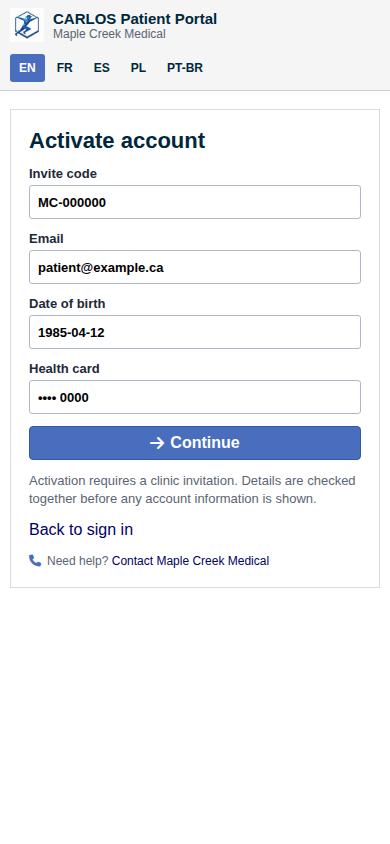
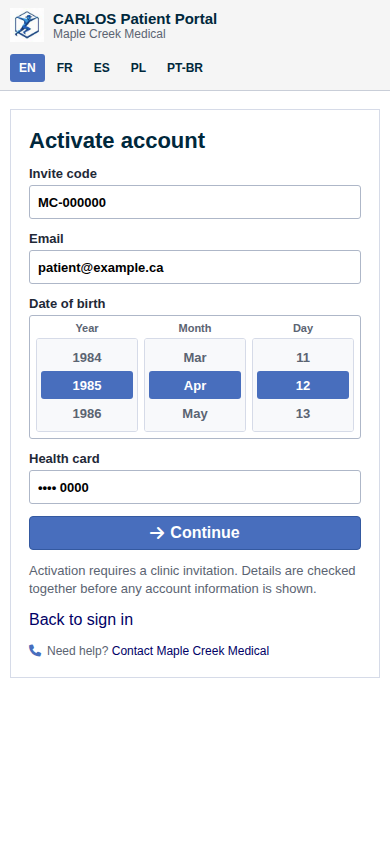
docs: use scroll selector for portal activation DOB

Changed region(s): [[0.0615, 0.3697, 0.9231, 0.8009], [0.3077, 0.7393, 0.6769, 0.8009]]

diff --git a/patient-portal-mocks/index.html b/patient-portal-mocks/index.html
@@ -136,10 +136,42 @@
                 <span>Email</span>
                 <input type="email" value="patient@example.ca" autocomplete="email">
               </label>
-              <label>
-                <span>Date of birth</span>
-                <input type="text" value="1985-04-12" inputmode="numeric" autocomplete="bday">
-              </label>
+              <div class="dob-field">
+                <span class="field-label">Date of birth</span>
+                <input type="hidden" value="1985-04-12" autocomplete="bday" data-dob-value>
+                <div class="dob-scroll-picker" role="group" aria-label="Date of birth">
+                  <div class="dob-scroll-column">
+                    <span>Year</span>
+                    <div class="dob-wheel" role="listbox" aria-label="Birth year" tabindex="0" data-dob-wheel>
+                      <button type="button" role="option" aria-selected="false" class="dob-option" data-dob-part="year" data-dob-option data-dob-value="1983">1983</button>
+                      <button type="button" role="option" aria-selected="false" class="dob-option" data-dob-part="year" data-dob-option data-dob-value="1984">1984</button>
+                      <button type="button" role="option" aria-selected="true" class="dob-option selected" data-dob-part="year" data-dob-option data-dob-value="1985">1985</button>
+                      <button type="button" role="option" aria-selected="false" class="dob-option" data-dob-part="year" data-dob-option data-dob-value="1986">1986</button>
+                      <button type="button" role="option" aria-selected="false" class="dob-option" data-dob-part="year" data-dob-option data-dob-value="1987">1987</button>
+                    </div>
+                  </div>
+                  <div class="dob-scroll-column">
+                    <span>Month</span>
+                    <div class="dob-wheel" role="listbox" aria-label="Birth month" tabindex="0" data-dob-wheel>
+                      <button type="button" role="option" aria-selected="false" class="dob-option" data-dob-part="month" data-dob-option data-dob-value="03">Mar</button>
+                      <button type="button" role="option" aria-selected="true" class="dob-option selected" data-dob-part="month" data-dob-option data-dob-value="04">Apr</button>
+                      <button type="button" role="option" aria-selected="false" class="dob-option" data-dob-part="month" data-dob-option data-dob-value="05">May</button>
+                      <button type="button" role="option" aria-selected="false" class="dob-option" data-dob-part="month" data-dob-option data-dob-value="06">Jun</button>
+                      <button type="button" role="option" aria-selected="false" class="dob-option" data-dob-part="month" data-dob-option data-dob-value="07">Jul</button>
+                    </div>
+                  </div>
+                  <div class="dob-scroll-column">
+                    <span>Day</span>
+                    <div class="dob-wheel" role="listbox" aria-label="Birth day" tabindex="0" data-dob-wheel>
+                      <button type="button" role="option" aria-selected="false" class="dob-option" data-dob-part="day" data-dob-option data-dob-value="10">10</button>
+                      <button type="button" role="option" aria-selected="false" class="dob-option" data-dob-part="day" data-dob-option data-dob-value="11">11</button>
+                      <button type="button" role="option" aria-selected="true" class="dob-option selected" data-dob-part="day" data-dob-option data-dob-value="12">12</button>
+                      <button type="button" role="option" aria-selected="false" class="dob-option" data-dob-part="day" data-dob-option data-dob-value="13">13</button>
+                      <button type="button" role="option" aria-selected="false" class="dob-option" data-dob-part="day" data-dob-option data-dob-value="14">14</button>
+                    </div>
+                  </div>
+                </div>
+              </div>
               <label>
                 <span>Health card</span>
                 <input type="text" value="•••• 0000" autocomplete="off">
@@ -719,6 +751,7 @@
         url.searchParams.set('screen', id);
         window.history.replaceState({}, '', url);
       }
+      centerDobSelections(next);
     }
 
     document.querySelectorAll('[data-target]').forEach((button) => {
@@ -738,6 +771,37 @@
         button.setAttribute('title', nextType === 'password' ? 'Show password' : 'Hide password');
         button.querySelector('i')?.classList.toggle('fa-eye', nextType === 'password');
         button.querySelector('i')?.classList.toggle('fa-eye-slash', nextType !== 'password');
+      });
+    });
+
+    function updateDobValue(field) {
+      const hidden = field?.querySelector('[data-dob-value]');
+      if (!hidden) return;
+      const parts = ['year', 'month', 'day'].map((part) => (
+        field.querySelector(`[data-dob-part="${part}"].selected`)?.dataset.dobValue
+      ));
+      if (parts.every(Boolean)) hidden.value = parts.join('-');
+    }
+
+    function centerDobSelections(scope = document) {
+      scope.querySelectorAll('[data-dob-wheel]').forEach((wheel) => {
+        const selected = wheel.querySelector('[data-dob-option].selected');
+        if (!selected) return;
+        const selectedTop = selected.offsetTop - wheel.offsetTop;
+        wheel.scrollTop = selectedTop - ((wheel.clientHeight - selected.offsetHeight) / 2);
+      });
+    }
+
+    document.querySelectorAll('[data-dob-option]').forEach((option) => {
+      option.addEventListener('click', () => {
+        const wheel = option.closest('[data-dob-wheel]');
+        wheel?.querySelectorAll('[data-dob-option]').forEach((item) => {
+          const selected = item === option;
+          item.classList.toggle('selected', selected);
+          item.setAttribute('aria-selected', selected ? 'true' : 'false');
+        });
+        updateDobValue(option.closest('.dob-field'));
+        centerDobSelections(option.closest('.dob-field'));
       });
     });
 

diff --git a/patient-portal-mocks/styles.css b/patient-portal-mocks/styles.css
@@ -246,12 +246,17 @@ h2 {
 }
 
 .form-stack label,
+.dob-field,
 .search-box {
   display: grid;
   gap: 4px;
   color: #1f2937;
   font-size: 13px;
   font-weight: bold;
+}
+
+.field-label {
+  display: block;
 }
 
 .form-stack input,
@@ -306,6 +311,77 @@ h2 {
   color: var(--muted);
   font-size: 13px;
   line-height: 1.4;
+}
+
+.dob-scroll-picker {
+  display: grid;
+  grid-template-columns: repeat(3, minmax(0, 1fr));
+  gap: 6px;
+  padding: 6px;
+  background: #fff;
+  border: 1px solid #aeb7c8;
+  border-radius: 3px;
+}
+
+.dob-scroll-column {
+  display: grid;
+  gap: 4px;
+  min-width: 0;
+}
+
+.dob-scroll-column > span {
+  color: var(--muted);
+  font-size: 11px;
+  text-align: center;
+}
+
+.dob-wheel {
+  max-height: 94px;
+  overflow-y: auto;
+  padding: 4px;
+  background: #f8f9fb;
+  border: 1px solid #d6dbe8;
+  border-radius: 3px;
+  scroll-snap-type: y mandatory;
+}
+
+.dob-wheel::-webkit-scrollbar {
+  width: 7px;
+}
+
+.dob-wheel::-webkit-scrollbar-track {
+  background: #eef2f8;
+}
+
+.dob-wheel::-webkit-scrollbar-thumb {
+  background: #9aa6bd;
+  border-radius: 4px;
+}
+
+.dob-wheel:focus {
+  outline: 2px solid var(--focus);
+  outline-offset: 1px;
+}
+
+.dob-option {
+  display: block;
+  width: 100%;
+  min-height: 28px;
+  padding: 5px 6px;
+  color: var(--muted);
+  background: transparent;
+  border: 0;
+  border-radius: 3px;
+  font-size: 13px;
+  font-weight: bold;
+  text-align: center;
+  scroll-snap-align: center;
+}
+
+.dob-option:hover,
+.dob-option.selected {
+  color: #fff;
+  background: var(--carlos-blue);
 }
 
 .password-input-row {
